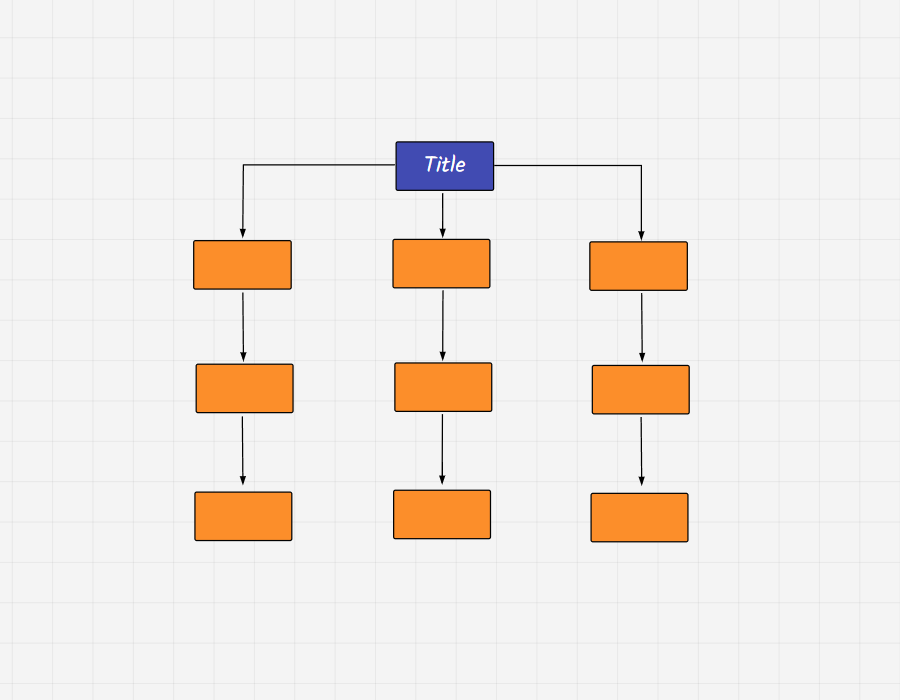
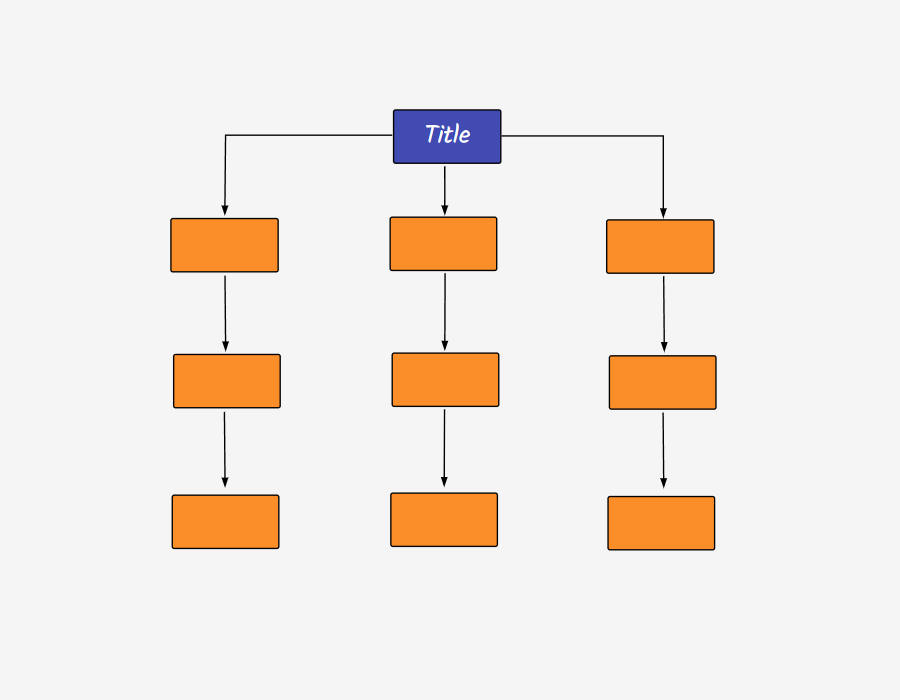
edited styles + images + export to png without url grid

diff --git a/app/(landing)/(casos-de-uso)/mapa-conceptual/page.tsx b/app/(landing)/(casos-de-uso)/mapa-conceptual/page.tsx
@@ -21,7 +21,7 @@ import { TemplatesSlider } from "@/components/templates-slider";
 export const metadata: Metadata = {
     title: "Crea tu mapa conceptual online gratis | Sketchlie",
     description: "Crea mapas conceptuales de forma gratuita con Sketchlie. Comienza ahora y colabora con tu equipo en el diseño de mapas conceptuales.",
-    keywords: ["mapa conceptual", "mapa conceptual online", "mapa conceptual gratis", "mapas conceptuales online"],
+    keywords: ["mapa conceptual", "mapa conceptual online", "mapa conceptual gratis", "mapas conceptuales online", "mapas conceptuales gratis", "mapa conceptual colaborativo", "mapa conceptual en línea", "mapa conceptual en tiempo real", "mapa conceptual herramienta", "mapa conceptual software", "mapa conceptual digital", "mapa conceptual interactivo", "mapa conceptual creativo", "mapa conceptual educativo", "mapa conceptual empresarial", "mapa conceptual de estudio", "mapa conceptual de investigación", "mapa conceptual de proyecto", "mapa conceptual de presentación", "mapa conceptual de planificación", "mapa conceptual de toma de decisiones", "mapa conceptual de comunicación", "mapa conceptual de creatividad", "mapa conceptual de colaboración", "mapa conceptual de organización", "mapa conceptual de representación visual", "mapa conceptual de estructura jerárquica", "mapa conceptual de relaciones", "mapa conceptual de categorización", "mapa conceptual de simplificación", "mapa conceptual de flexibilidad", "mapa conceptual de claridad", "mapa conceptual de comprensión", "mapa conceptual de comunicación efectiva", "mapa conceptual de estudio y repaso", "mapa conceptual de planificación de proyectos", "mapa conceptual de toma de decisiones informadas", "mapa conceptual de comunicación clara", "mapa conceptual de presentaciones", "mapa conceptual de informes", "mapa conceptual de reuniones", "mapa conceptual de creatividad y productividad", "mapa conceptual de colaboración en tiempo real", "mapa conceptual de organización y estructura", "mapa conceptual de representación visual y comprensible", "mapa conceptual de herramienta efectiva", "mapa conceptual de herramienta versátil", "mapa conceptual de herramienta poderosa", "mapa conceptual de herramienta online", "mapa conceptual de herramienta gratuita", "mapa conceptual de herramienta colaborativa", "mapa conceptual de herramienta creativa", "mapa conceptual de herramienta educativa", "mapa conceptual de herramienta empresarial", "mapa conceptual de herramienta de estudio", "mapa conceptual de herramienta de investigación", "mapa conceptual de herramienta de proyecto", "mapa conceptual de herramienta de presentación", "mapa conceptual de herramienta de planificación", "mapa conceptual de herramienta de toma de decisiones", "mapa conceptual"],
     alternates: {
         canonical: "https://www.sketchlie.com/mapa-conceptual/",
     }
@@ -106,8 +106,8 @@ const LandingPage = () => {
                 </BreadcrumbList>
             </Breadcrumb>
             <BlogStructure
-                title="Creador de Mapas Conceptuales Online"
-                description="Los mapas conceptuales son valiosas herramientas que permiten organizar y representar información de manera visual. Consisten en una estructura compuesta por nodos, que representan conceptos o ideas, y enlaces que muestran las relaciones entre estos conceptos."
+                title="Creador de Mapas Conceptuales"
+                description="Los mapas conceptuales son valiosas herramientas que permiten organizar y representar información de manera visual."
                 cta="Crear mapa conceptual"
                 alt="Mapa conceptual"
                 img="/placeholders/mapa-conceptual-online.png"

diff --git a/app/(landing)/(casos-de-uso)/diagrama/page.tsx b/app/(landing)/(casos-de-uso)/diagrama/page.tsx
@@ -107,7 +107,7 @@ const LandingPage = () => {
                 </BreadcrumbList>
             </Breadcrumb>
             <BlogStructure
-                title="Crea diagramas online en minutos, no horas"
+                title="Creador de diagramas online"
                 description="Los diagramas son recursos esenciales que facilitan la organización y visualización de información de forma efectiva. Se componen de nodos que representan conceptos o ideas, conectados por enlaces que ilustran las relaciones entre ellos."
                 cta="Crear diagrama"
                 alt="Diagrama"
@@ -116,7 +116,7 @@ const LandingPage = () => {
             <LogoSlider />
             <LandingVideo />
             <BlogSection
-                title="Creador de diagramas online"
+                title="Crea diagramas online en minutos, no horas"
                 text="Descubre la forma perfecta para transformar conceptos complejos en un diagrama online digerible para ti, tus alumnos o tu equipo. Haz un diagrama de cualquier tema o de tu investigación para cualquier ocasión, ya sea sobre un nuevo producto de tu empresa o para presentar una lección abrumadora en clase. Estructura un diagrama online creativo a partir de la pizarra online de Sketchlie y aprovecha todas las herramientas y elementos de diseño y cautiva a tu publico."
                 alt="Wireframe"
                 img="/placeholders/wireframe.png"

diff --git a/app/dashboard/templates/templates.ts b/app/dashboard/templates/templates.ts
@@ -10,7 +10,6 @@ import { PlantillaMapaDeProceso } from "./mapa-de-proceso";
 import { PlantillaMapaMental } from "./mapa-mental";
 
 
-export const templates = [PlantillaMapaConceptual, PlantillaDiagramaDeFlujo, PlantillaCustomerJourneyMap,
-    PlantillaMapaMental, PlantillaLluviaDeIdeas, PlantillaLowFidelityWireframe, PlantillaMapaDeProceso,
-    PlantillaDiagrama, PlantillaLineaDeTiempo, PlantillaDiagramaIshikawa,
+export const templates = [PlantillaMapaConceptual, PlantillaDiagramaDeFlujo, PlantillaCustomerJourneyMap, PlantillaLluviaDeIdeas, PlantillaLowFidelityWireframe, PlantillaMapaDeProceso,
+    PlantillaDiagrama, PlantillaLineaDeTiempo, PlantillaMapaMental, PlantillaDiagramaIshikawa,
 ];

diff --git a/app/(landing)/(casos-de-uso)/mapa-mental-online/page.tsx b/app/(landing)/(casos-de-uso)/mapa-mental-online/page.tsx
@@ -89,7 +89,7 @@ const LandingPage = () => {
                 </BreadcrumbList>
             </Breadcrumb>
             <BlogStructure
-                title="Crea Mapas Mentales Online de Forma Creativa"
+                title="Herramienta para crear Mapas Mentales"
                 description="Libera tu imaginación y organiza tus ideas de manera visual con nuestra herramienta para crear mapas mentales en línea. Descubre cómo el diseño de mapas mentales puede potenciar tu creatividad y mejorar tu productividad en proyectos personales y profesionales."
                 cta="Crear mapa mental"
                 alt="Mapa mental"

diff --git a/lib/utils.ts b/lib/utils.ts
@@ -331,13 +331,6 @@ export const exportToPNG = async (title: string) => {
 
   // Set the background color and image
   screenShot.style.backgroundColor = '#F4F4F4';
-  screenShot.style.backgroundImage = "url(/dot-grid.png)";
-  screenShot.style.backgroundSize = 'cover';
-
-  // Create a new image and wait for it to load
-  const img = new Image();
-  img.src = "/dot-grid.png";
-  await new Promise((resolve) => img.onload = resolve);
 
   // Now that the image is loaded, take the screenshot
   toPng(screenShot, { quality: 1 }).then((dataUrl) => {

diff --git a/components/blog-structure.tsx b/components/blog-structure.tsx
@@ -57,7 +57,7 @@ export const BlogStructure = ({
                         }}
                     />
                 </div>
-                <p className="text-lg text-zinc-600 md:mr-[25%] mx-auto">
+                <p className="sm:text-lg text-base text-zinc-600 md:mr-[25%] mx-auto">
                     {description}
                 </p>
                 <div>
